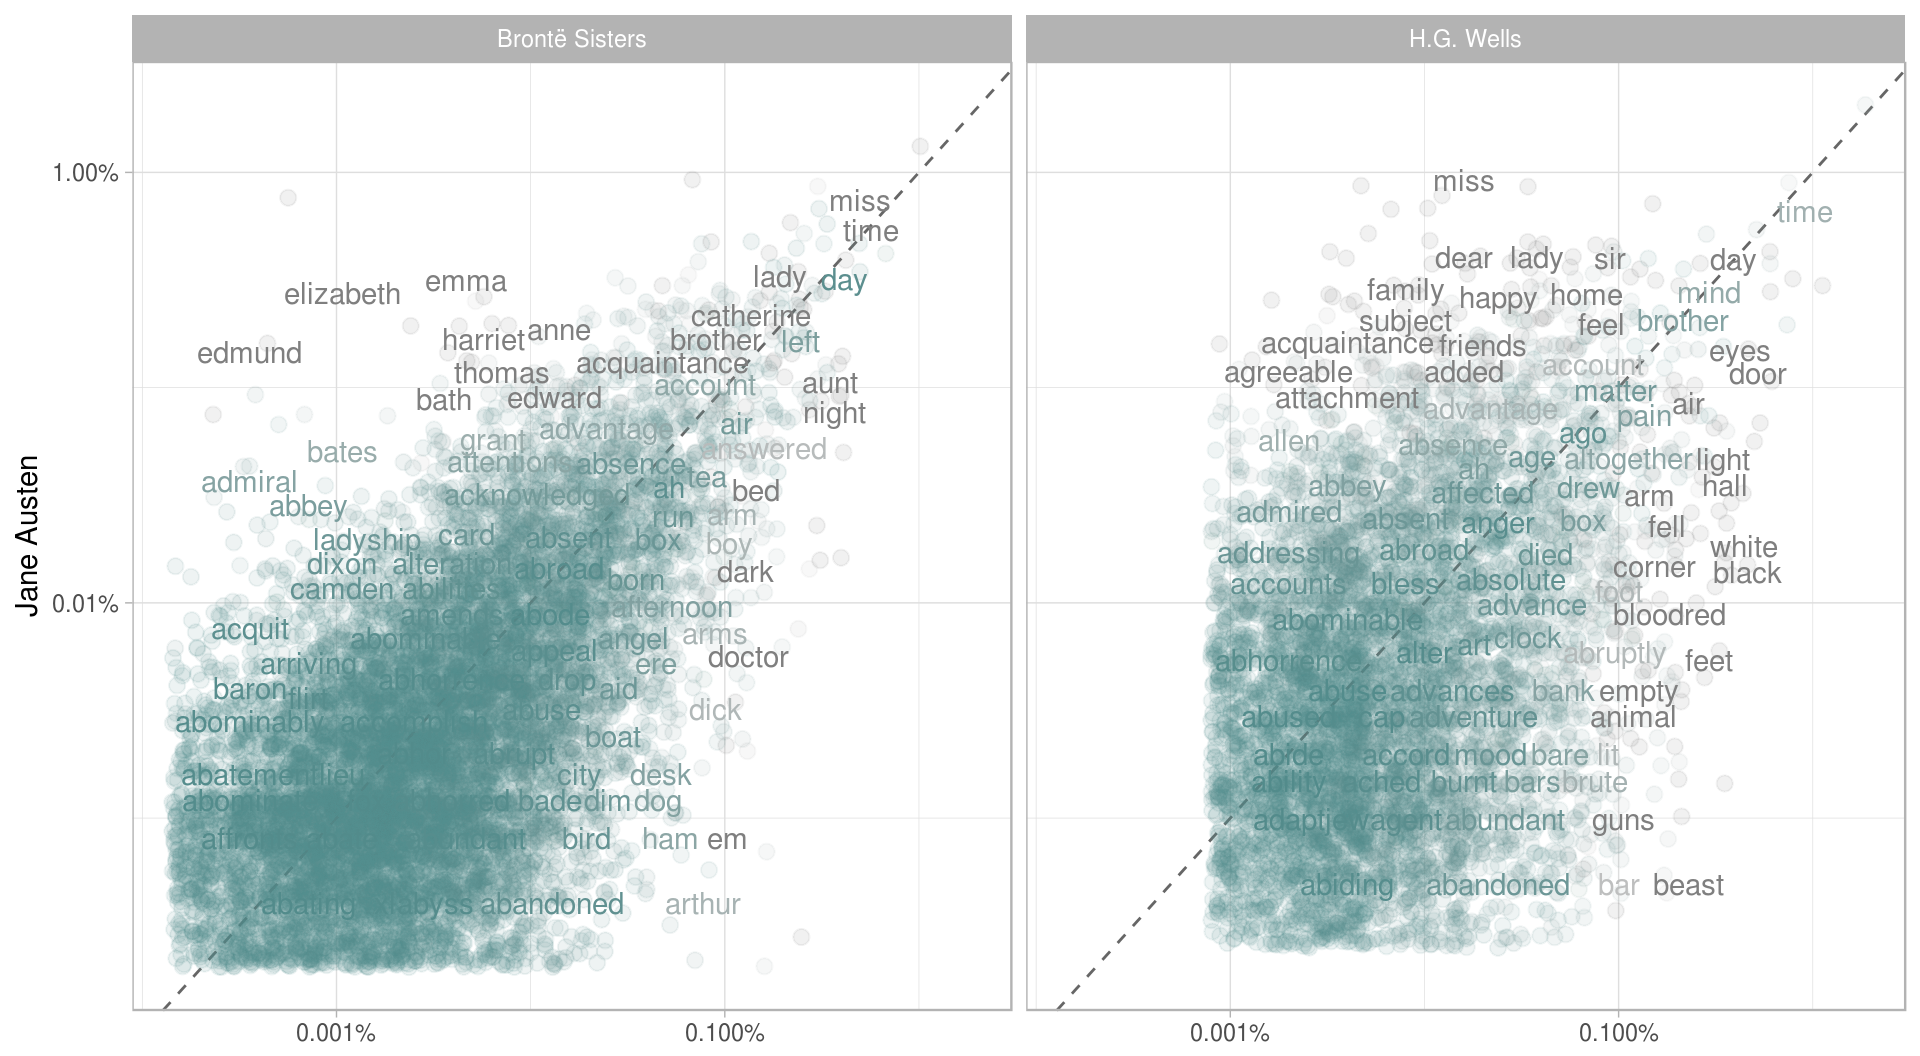
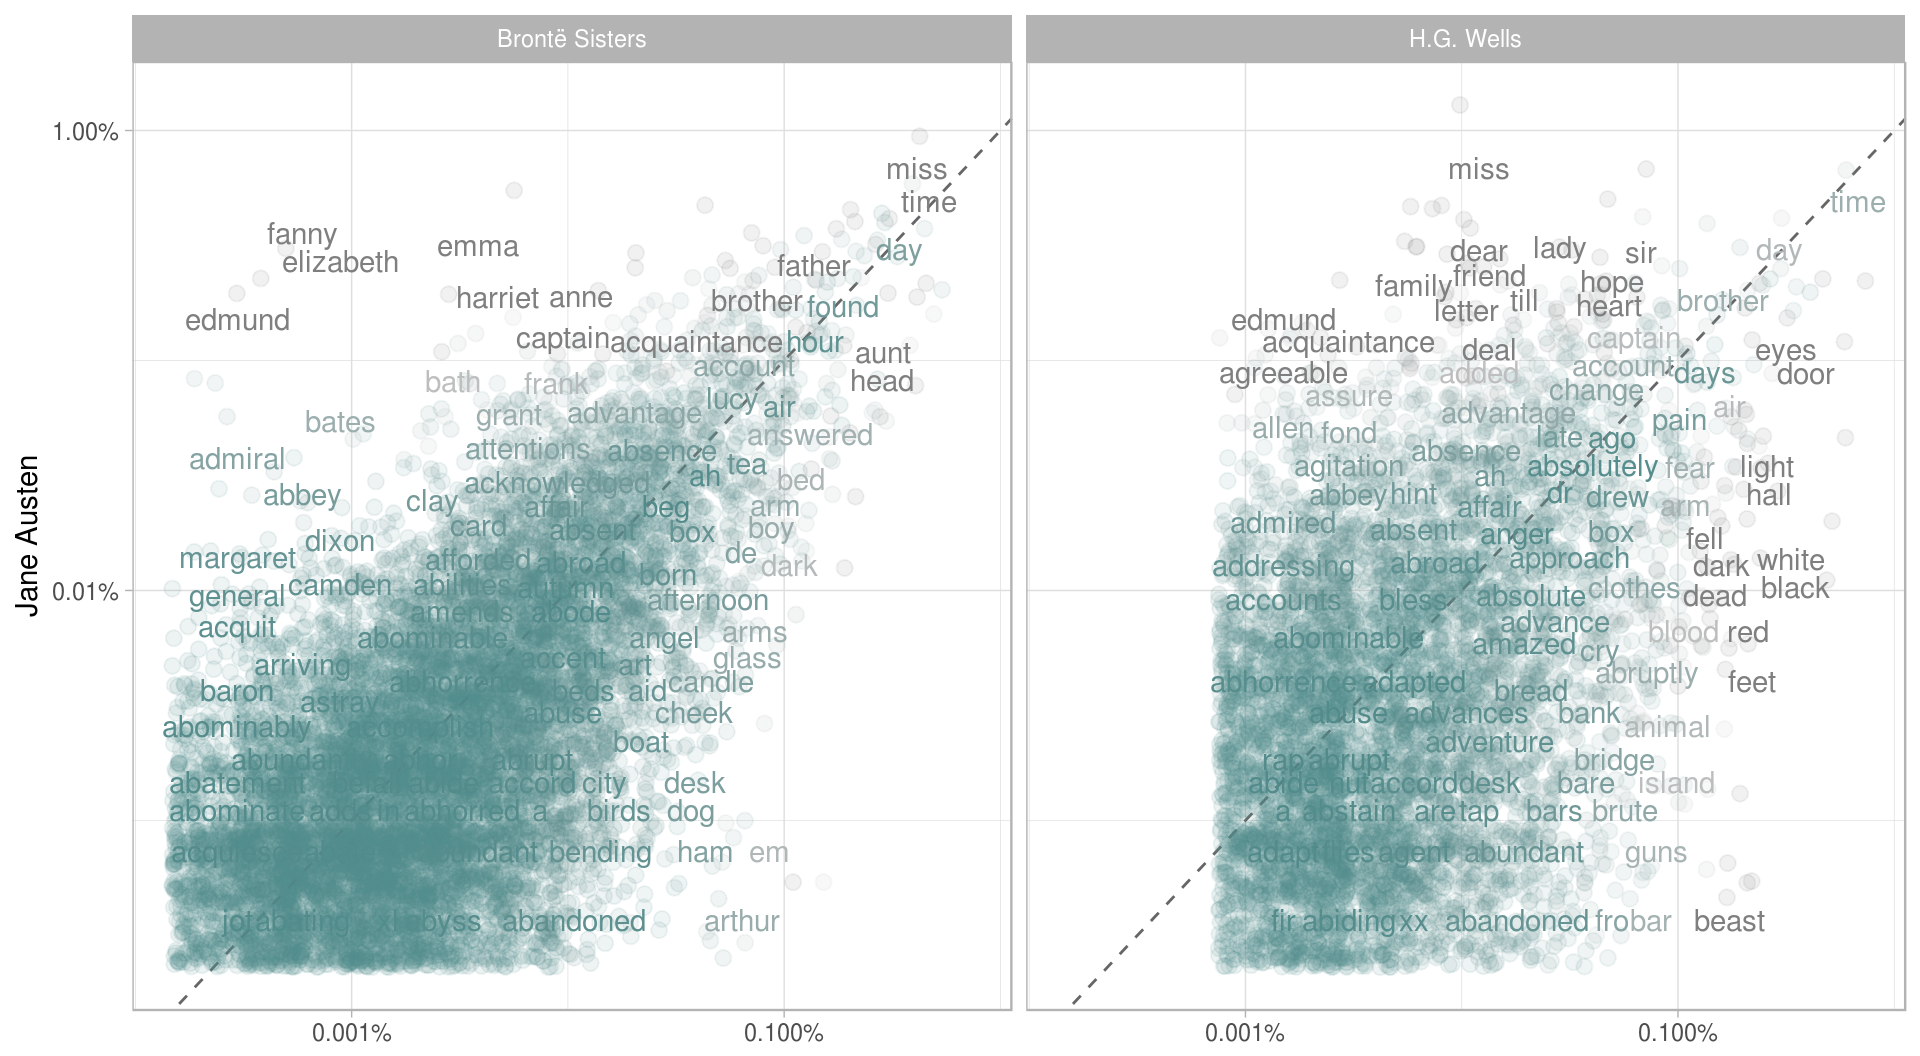
Updating book (171)

diff --git a/tidytext.html b/tidytext.html
@@ -246,6 +246,7 @@ text_df</code></pre></div>
 <p>Notice that this data frame isn’t yet compatible with tidy tools. We can’t filter out words or count which occur most frequently, since each row is made up of multiple combined words. We need to convert this so that it has <strong>one-token-per-document-per-row</strong>. A token, in this context, is a meaningful unit of text that we are interested in using for further analysis. Tokenization is the process of breaking up text into individual tokens, and it is most commonly done at the level of single words. Within our tidy text framework, we will both break the text into individual tokens <em>and</em> transform it to a tidy data structure.</p>
 <p>To do this, we use tidytext’s <code>unnest_tokens</code> function.</p>
 <div class="sourceCode"><pre class="sourceCode r"><code class="sourceCode r"><span class="kw">library</span>(tidytext)
+
 text_df %&gt;%
 <span class="st">  </span><span class="kw">unnest_tokens</span>(word, text)</code></pre></div>
 <pre><code>## # A tibble: 20 × 2
@@ -364,6 +365,7 @@ tidy_books %&gt;%
 <h2><span class="header-section-number">2.4</span> Word frequencies</h2>
 <p>A common task in text mining is to look at word frequencies, just like we have done above for Jane Austen’s novels, and to compare frequencies across different texts. We can do this intuitively and smoothly using tidy data principles. We already have Jane Austen’s works; let’s get two more sets of texts to compare to. First, let’s look at some science fiction and fantasy novels by H.G. Wells, who lived in the late 19th and early 20th centuries. Let’s get <a href="https://www.gutenberg.org/ebooks/35"><em>The Time Machine</em></a>, <a href="https://www.gutenberg.org/ebooks/36"><em>The War of the Worlds</em></a>, <a href="https://www.gutenberg.org/ebooks/5230"><em>The Invisible Man</em></a>, and <a href="https://www.gutenberg.org/ebooks/159"><em>The Island of Doctor Moreau</em></a>.</p>
 <div class="sourceCode"><pre class="sourceCode r"><code class="sourceCode r"><span class="kw">library</span>(gutenbergr)
+
 hgwells &lt;-<span class="st"> </span><span class="kw">gutenberg_download</span>(<span class="kw">c</span>(<span class="dv">35</span>, <span class="dv">36</span>, <span class="dv">5230</span>, <span class="dv">159</span>))</code></pre></div>
 <div class="sourceCode"><pre class="sourceCode r"><code class="sourceCode r">tidy_hgwells &lt;-<span class="st"> </span>hgwells %&gt;%
 <span class="st">  </span><span class="kw">unnest_tokens</span>(word, text) %&gt;%
@@ -412,20 +414,24 @@ hgwells &lt;-<span class="st"> </span><span class="kw">gutenberg_download</span>
 <div class="sourceCode"><pre class="sourceCode r"><code class="sourceCode r">tidy_both &lt;-<span class="st"> </span><span class="kw">bind_rows</span>(
   <span class="kw">mutate</span>(tidy_bronte, <span class="dt">author =</span> <span class="st">&quot;Brontë Sisters&quot;</span>),
   <span class="kw">mutate</span>(tidy_hgwells, <span class="dt">author =</span> <span class="st">&quot;H.G. Wells&quot;</span>))
+
+austen_percent &lt;-<span class="st"> </span>tidy_books %&gt;%
+<span class="st">  </span><span class="kw">mutate</span>(<span class="dt">word =</span> <span class="kw">str_extract</span>(word, <span class="st">&quot;[a-z]+&quot;</span>)) %&gt;%
+<span class="st">  </span><span class="kw">count</span>(word) %&gt;%
+<span class="st">  </span><span class="kw">transmute</span>(word, <span class="dt">austen =</span> n /<span class="st"> </span><span class="kw">sum</span>(n))
+
 frequency &lt;-<span class="st"> </span>tidy_both %&gt;%
 <span class="st">  </span><span class="kw">mutate</span>(<span class="dt">word =</span> <span class="kw">str_extract</span>(word, <span class="st">&quot;[a-z]+&quot;</span>)) %&gt;%
 <span class="st">  </span><span class="kw">count</span>(author, word) %&gt;%
-<span class="st">  </span><span class="kw">rename</span>(<span class="dt">other =</span> n) %&gt;%
-<span class="st">  </span><span class="kw">inner_join</span>(<span class="kw">count</span>(tidy_books, word)) %&gt;%
-<span class="st">  </span><span class="kw">rename</span>(<span class="dt">Austen =</span> n) %&gt;%
-<span class="st">  </span><span class="kw">mutate</span>(<span class="dt">other =</span> other /<span class="st"> </span><span class="kw">sum</span>(other),
-         <span class="dt">Austen =</span> Austen /<span class="st"> </span><span class="kw">sum</span>(Austen)) %&gt;%
+<span class="st">  </span><span class="kw">mutate</span>(<span class="dt">other =</span> n /<span class="st"> </span><span class="kw">sum</span>(n)) %&gt;%
+<span class="st">  </span><span class="kw">left_join</span>(austen_percent) %&gt;%
 <span class="st">  </span><span class="kw">ungroup</span>()</code></pre></div>
 <p>We use <code>str_extract</code> here because the UTF-8 encoded texts from Project Gutenberg have some examples of words with underscores around them to indicate emphasis (like italics). The tokenizer treated these as words but we don’t want to count “_any_” separately from “any”. Now let’s plot.</p>
 <div class="sourceCode"><pre class="sourceCode r"><code class="sourceCode r"><span class="kw">library</span>(scales)
-<span class="kw">ggplot</span>(frequency, <span class="kw">aes</span>(<span class="dt">x =</span> other, <span class="dt">y =</span> Austen, <span class="dt">color =</span> <span class="kw">abs</span>(Austen -<span class="st"> </span>other))) +
+
+<span class="kw">ggplot</span>(frequency, <span class="kw">aes</span>(<span class="dt">x =</span> other, <span class="dt">y =</span> austen, <span class="dt">color =</span> <span class="kw">abs</span>(austen -<span class="st"> </span>other))) +
 <span class="st">  </span><span class="kw">geom_abline</span>(<span class="dt">color =</span> <span class="st">&quot;gray40&quot;</span>, <span class="dt">lty =</span> <span class="dv">2</span>) +
-<span class="st">  </span><span class="kw">geom_jitter</span>(<span class="dt">alpha =</span> <span class="fl">0.1</span>, <span class="dt">size =</span> <span class="fl">2.5</span>, <span class="dt">width =</span> <span class="fl">0.4</span>, <span class="dt">height =</span> <span class="fl">0.4</span>) +
+<span class="st">  </span><span class="kw">geom_jitter</span>(<span class="dt">alpha =</span> <span class="fl">0.1</span>, <span class="dt">size =</span> <span class="fl">2.5</span>, <span class="dt">width =</span> <span class="fl">0.3</span>, <span class="dt">height =</span> <span class="fl">0.3</span>) +
 <span class="st">  </span><span class="kw">geom_text</span>(<span class="kw">aes</span>(<span class="dt">label =</span> word), <span class="dt">check_overlap =</span> <span class="ot">TRUE</span>, <span class="dt">vjust =</span> <span class="fl">1.5</span>) +
 <span class="st">  </span><span class="kw">scale_x_log10</span>(<span class="dt">labels =</span> <span class="kw">percent_format</span>()) +
 <span class="st">  </span><span class="kw">scale_y_log10</span>(<span class="dt">labels =</span> <span class="kw">percent_format</span>()) +
@@ -434,35 +440,35 @@ frequency &lt;-<span class="st"> </span>tidy_both %&gt;%
 <span class="st">  </span><span class="kw">theme</span>(<span class="dt">legend.position=</span><span class="st">&quot;none&quot;</span>) +
 <span class="st">  </span><span class="kw">labs</span>(<span class="dt">y =</span> <span class="st">&quot;Jane Austen&quot;</span>, <span class="dt">x =</span> <span class="ot">NULL</span>)</code></pre></div>
 <p><img src="02-tidy-text_files/figure-html/plot_compare-1.png" width="960" /></p>
-<p>Words that are close to the line in these plots have similar frequencies in both sets of texts, for example, in both Austen and Brontë texts (“miss”, “time”, “lady”, “day” at the upper frequency end) or in both Austen and Wells texts (“time”, “day”, “mind”, “brother” at the high frequency end). Words that are far from the line are words that are found more in one set of texts than another. For example, in the Austen-Brontë plot, words like “elizabeth”, “emma”, “captain”, and “bath” (all proper nouns) are found in Austen’s texts but not much in the Brontë texts, while words like “arthur”, “dark”, “dog”, and “doctor” are found in the Brontë texts but not the Austen texts. In comparing H.G. Wells with Jane Austen, Wells uses words like “beast”, “guns”, “brute”, and “animal” that Austen does not, while Austen uses words like “family”, “friend”, “letter”, and “agreeable” that Wells does not.</p>
-<p>Overall, notice that the words in the Austen-Brontë plot are closer to the zero-slope line than in the Austen-Wells plot and also extend to lower frequencies; Austen and the Brontë sisters use more similar words than Austen and H.G. Wells. Also, we might notice the percent frequencies for individual words are different in one plot when compared to another because of the inner join; not all the words are found in all three sets of texts so the percent frequency is a different quantity.</p>
+<p>Words that are close to the line in these plots have similar frequencies in both sets of texts, for example, in both Austen and Brontë texts (“miss”, “time”, “lady”, “day” at the upper frequency end) or in both Austen and Wells texts (“time”, “day”, “house” at the high frequency end). Words that are far from the line are words that are found more in one set of texts than another. For example, in the Austen-Brontë plot, words like “elizabeth”, “emma”, and “edmund” (all proper nouns) are found in Austen’s texts but not much in the Brontë texts, while words like “arthur”, “chin”, and “ham” are found in the Brontë texts but not the Austen texts. In comparing H.G. Wells with Jane Austen, Wells uses words like “beach”, “smoke”, and “animals” that Austen does not, while Austen uses words like “family”, “friend”, “letter”, and “dear” that Wells does not.</p>
+<p>Overall, notice that the words in the Austen-Brontë plot are closer to the zero-slope line than in the Austen-Wells plot and also extend to lower frequencies; Austen and the Brontë sisters use more similar words than Austen and H.G. Wells. Also, we notice that not all the words are found in all three sets of texts and there are fewer points in the plot for Austen and H.G. Wells.</p>
 <p>Let’s quantify how similar and different these sets of word frequencies are using a correlation test. How correlated are the word frequencies between Austen and the Brontë sisters, and between Austen and Wells?</p>
 <div class="sourceCode"><pre class="sourceCode r"><code class="sourceCode r"><span class="kw">cor.test</span>(<span class="dt">data =</span> frequency[frequency$author ==<span class="st"> &quot;Brontë Sisters&quot;</span>,],
-         ~<span class="st"> </span>other +<span class="st"> </span>Austen)</code></pre></div>
+         ~<span class="st"> </span>other +<span class="st"> </span>austen)</code></pre></div>
 <pre><code>## 
 ##  Pearson&#39;s product-moment correlation
 ## 
-## data:  other and Austen
-## t = 122.51, df = 10620, p-value &lt; 2.2e-16
+## data:  other and austen
+## t = 119.43, df = 10765, p-value &lt; 2.2e-16
 ## alternative hypothesis: true correlation is not equal to 0
 ## 95 percent confidence interval:
-##  0.7572588 0.7730232
+##  0.7466616 0.7629140
 ## sample estimates:
 ##       cor 
-## 0.7652557</code></pre>
+## 0.7549037</code></pre>
 <div class="sourceCode"><pre class="sourceCode r"><code class="sourceCode r"><span class="kw">cor.test</span>(<span class="dt">data =</span> frequency[frequency$author ==<span class="st"> &quot;H.G. Wells&quot;</span>,], 
-         ~<span class="st"> </span>other +<span class="st"> </span>Austen)</code></pre></div>
+         ~<span class="st"> </span>other +<span class="st"> </span>austen)</code></pre></div>
 <pre><code>## 
 ##  Pearson&#39;s product-moment correlation
 ## 
-## data:  other and Austen
-## t = 36.058, df = 5962, p-value &lt; 2.2e-16
+## data:  other and austen
+## t = 35.91, df = 6027, p-value &lt; 2.2e-16
 ## alternative hypothesis: true correlation is not equal to 0
 ## 95 percent confidence interval:
-##  0.4020611 0.4437385
+##  0.3988024 0.4403950
 ## sample estimates:
 ##       cor 
-## 0.4231236</code></pre>
+## 0.4198191</code></pre>
 <p>The relationship between the word frequencies is different between these sets of texts, as it appears in the plots.</p>
 
 </div>

diff --git a/02-tidy-text.md b/02-tidy-text.md
@@ -56,6 +56,7 @@ To do this, we use tidytext's `unnest_tokens` function.
 
 ```r
 library(tidytext)
+
 text_df %>%
   unnest_tokens(word, text)
 ```
@@ -218,6 +219,7 @@ A common task in text mining is to look at word frequencies, just like we have d
 
 ```r
 library(gutenbergr)
+
 hgwells <- gutenberg_download(c(35, 36, 5230, 159))
 ```
 
@@ -305,14 +307,17 @@ Now, let's calculate the frequency for each word for the works of Jane Austen, t
 tidy_both <- bind_rows(
   mutate(tidy_bronte, author = "Brontë Sisters"),
   mutate(tidy_hgwells, author = "H.G. Wells"))
+
+austen_percent <- tidy_books %>%
+  mutate(word = str_extract(word, "[a-z]+")) %>%
+  count(word) %>%
+  transmute(word, austen = n / sum(n))
+
 frequency <- tidy_both %>%
   mutate(word = str_extract(word, "[a-z]+")) %>%
   count(author, word) %>%
-  rename(other = n) %>%
-  inner_join(count(tidy_books, word)) %>%
-  rename(Austen = n) %>%
-  mutate(other = other / sum(other),
-         Austen = Austen / sum(Austen)) %>%
+  mutate(other = n / sum(n)) %>%
+  left_join(austen_percent) %>%
   ungroup()
 ```
 
@@ -321,9 +326,10 @@ We use `str_extract` here because the UTF-8 encoded texts from Project Gutenberg
 
 ```r
 library(scales)
-ggplot(frequency, aes(x = other, y = Austen, color = abs(Austen - other))) +
+
+ggplot(frequency, aes(x = other, y = austen, color = abs(austen - other))) +
   geom_abline(color = "gray40", lty = 2) +
-  geom_jitter(alpha = 0.1, size = 2.5, width = 0.4, height = 0.4) +
+  geom_jitter(alpha = 0.1, size = 2.5, width = 0.3, height = 0.3) +
   geom_text(aes(label = word), check_overlap = TRUE, vjust = 1.5) +
   scale_x_log10(labels = percent_format()) +
   scale_y_log10(labels = percent_format()) +
@@ -335,49 +341,49 @@ ggplot(frequency, aes(x = other, y = Austen, color = abs(Austen - other))) +
 
 <img src="02-tidy-text_files/figure-html/plot_compare-1.png" width="960" />
 
-Words that are close to the line in these plots have similar frequencies in both sets of texts, for example, in both Austen and Brontë texts ("miss", "time", "lady", "day" at the upper frequency end) or in both Austen and Wells texts ("time", "day", "mind", "brother" at the high frequency end). Words that are far from the line are words that are found more in one set of texts than another. For example, in the Austen-Brontë plot, words like "elizabeth", "emma", "captain", and "bath" (all proper nouns) are found in Austen's texts but not much in the Brontë texts, while words like "arthur", "dark", "dog", and "doctor" are found in the Brontë texts but not the Austen texts. In comparing H.G. Wells with Jane Austen, Wells uses words like "beast", "guns", "brute", and "animal" that Austen does not, while Austen uses words like "family", "friend", "letter", and "agreeable" that Wells does not.
+Words that are close to the line in these plots have similar frequencies in both sets of texts, for example, in both Austen and Brontë texts ("miss", "time", "lady", "day" at the upper frequency end) or in both Austen and Wells texts ("time", "day", "house" at the high frequency end). Words that are far from the line are words that are found more in one set of texts than another. For example, in the Austen-Brontë plot, words like "elizabeth", "emma", and "edmund" (all proper nouns) are found in Austen's texts but not much in the Brontë texts, while words like "arthur", "chin", and "ham" are found in the Brontë texts but not the Austen texts. In comparing H.G. Wells with Jane Austen, Wells uses words like "beach", "smoke", and "animals" that Austen does not, while Austen uses words like "family", "friend", "letter", and "dear" that Wells does not.
 
-Overall, notice that the words in the Austen-Brontë plot are closer to the zero-slope line than in the Austen-Wells plot and also extend to lower frequencies; Austen and the Brontë sisters use more similar words than Austen and H.G. Wells. Also, we might notice the percent frequencies for individual words are different in one plot when compared to another because of the inner join; not all the words are found in all three sets of texts so the percent frequency is a different quantity.
+Overall, notice that the words in the Austen-Brontë plot are closer to the zero-slope line than in the Austen-Wells plot and also extend to lower frequencies; Austen and the Brontë sisters use more similar words than Austen and H.G. Wells. Also, we  notice that not all the words are found in all three sets of texts and there are fewer points in the plot for Austen and H.G. Wells.
 
 Let's quantify how similar and different these sets of word frequencies are using a correlation test. How correlated are the word frequencies between Austen and the Brontë sisters, and between Austen and Wells?
 
 
 ```r
 cor.test(data = frequency[frequency$author == "Brontë Sisters",],
-         ~ other + Austen)
+         ~ other + austen)
 ```
 
 ```
 ## 
 ## 	Pearson's product-moment correlation
 ## 
-## data:  other and Austen
-## t = 122.51, df = 10620, p-value < 2.2e-16
+## data:  other and austen
+## t = 119.43, df = 10765, p-value < 2.2e-16
 ## alternative hypothesis: true correlation is not equal to 0
 ## 95 percent confidence interval:
-##  0.7572588 0.7730232
+##  0.7466616 0.7629140
 ## sample estimates:
 ##       cor 
-## 0.7652557
+## 0.7549037
 ```
 
 ```r
 cor.test(data = frequency[frequency$author == "H.G. Wells",], 
-         ~ other + Austen)
+         ~ other + austen)
 ```
 
 ```
 ## 
 ## 	Pearson's product-moment correlation
 ## 
-## data:  other and Austen
-## t = 36.058, df = 5962, p-value < 2.2e-16
+## data:  other and austen
+## t = 35.91, df = 6027, p-value < 2.2e-16
 ## alternative hypothesis: true correlation is not equal to 0
 ## 95 percent confidence interval:
-##  0.4020611 0.4437385
+##  0.3988024 0.4403950
 ## sample estimates:
 ##       cor 
-## 0.4231236
+## 0.4198191
 ```
 
 The relationship between the word frequencies is different between these sets of texts, as it appears in the plots.
